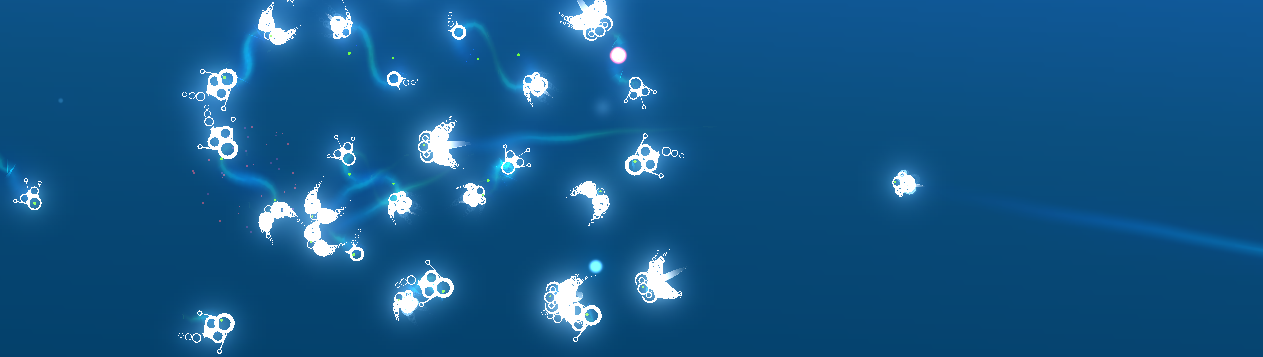
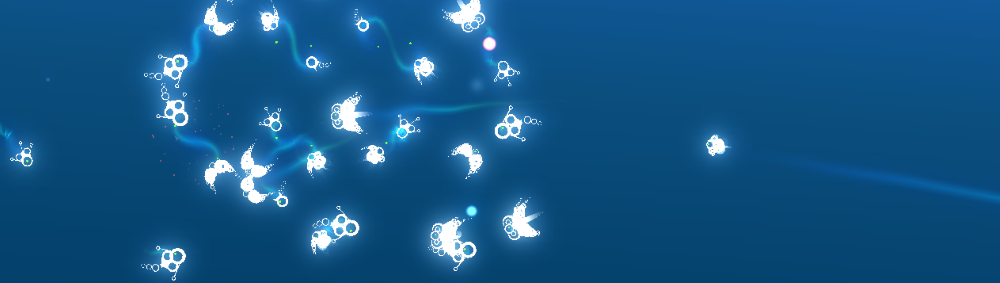
rescaled images for faster loading time

diff --git a/pages/winteriscoming.html b/pages/winteriscoming.html
@@ -14,13 +14,8 @@
         font-size:  20;
         color: #CC3114;
     }
-    
-    #Pic {
-        margin: 20 auto;
-        max-width: 80%;
-    }
 </style>
-                <div id="projectHeaderPicture">
+                <div class="projectHeaderPicture">
                     <img src="images/winteriscoming/header.png">
                 </div>
                 
@@ -40,7 +35,7 @@
                     </p>
                     <p><b>Date: </b> Mei 2015
                     </p>
-                    <p><b>Play: </b><a href="http://14411.hosts.ma-cloud.nl/asteroids/Winter_Is_Coming.swf" target="_blank"> here</a>
+                    <p><b>Play: </b><a href="http://14411.hosts.ma-cloud.nl/asteroids/bin/Winter_Is_Coming.swf" target="_blank"> here</a>
                     </p>
                     <p><b>Github: </b> <a href="https://github.com/Daniel95/WinterIsComing" target="_blank"> here</a>
                     </p>
@@ -63,7 +58,7 @@
             
             <div class="textContent"> 
                 <h2>Screenshots</h2>
-                <div id="Pic">
+                <div class="horImage">
                     <img src="images/winteriscoming/winteriscoming.png">
                 </div>
             </div>

diff --git a/pages/annihilators.html b/pages/annihilators.html
@@ -14,11 +14,6 @@
         font-size:  20;
         color: #CC3114;
     }
-    
-    #Pic {
-        margin: 20 auto;
-        max-width: 80%;
-    }
 </style>
                 <div id="projectHeaderPicture">
                     <img src="images/infinitehorizon/header.png">
@@ -67,19 +62,19 @@
             
             <div class="textContent"> 
                 <h2>Screenshots</h2>
-                <div id="Pic">
+                <div class="horImage">
                     <img src="images/infinitehorizon/infinitehorizon4.png">
                 </div>
                 <br>
-                <div id="Pic">
+                <div class="horImage">
                     <img src="images/infinitehorizon/infinitehorizon5.png">
                 </div>
                 <br>
-                <div id="Pic">
+                <div class="horImage">
                     <img src="images/infinitehorizon/shaders.png">
                 </div>
                                 <br>
-                <div id="Pic">
+                <div class="horImage">
                     <img src="images/infinitehorizon/terrain.png">
                 </div>
             </div>

diff --git a/pages/infinitehorizon.html b/pages/infinitehorizon.html
@@ -14,13 +14,8 @@
         font-size:  20;
         color: #CC3114;
     }
-    
-    #Pic {
-        margin: 20 auto;
-        max-width: 80%;
-    }
 </style>
-                <div id="projectHeaderPicture">
+                <div class="projectHeaderPicture">
                     <img src="images/infinitehorizon/header.png">
                 </div>
 
@@ -69,15 +64,15 @@
             
             <div class="textContent"> 
                 <h2>Screenshots</h2>
-                <div id="Pic">
+                <div class="horImage">
                     <img src="images/infinitehorizon/infinitehorizon5.png">
                 </div>
                 <br>
-                <div id="Pic">
+                <div class="horImage">
                     <img src="images/infinitehorizon/shaders.png">
                 </div>
                                 <br>
-                <div id="Pic">
+                <div class="horImage">
                     <img src="images/infinitehorizon/terrain.png">
                 </div>
             </div>

diff --git a/pages/voodoo.html b/pages/voodoo.html
@@ -14,13 +14,8 @@
         font-size:  20;
         color: #CC3114;
     }
-    
-    #Pic {
-        margin: 20 auto;
-        max-width: 80%;
-    }
 </style>
-                <div id="projectHeaderPicture">
+                <div class="projectHeaderPicture">
                     <img src="images/voodoo/header.png">
                 </div>
 
@@ -63,15 +58,15 @@ This is a horror game targeted for the Oculus Rift.<br>
             
             <div class="textContent"> 
                 <h2>Screenshots</h2>
-                <div id="Pic">
+                <div class="horImage">
                     <img src="images/voodoo/voodoo1.png">
                 </div>
                 <br>
-                <div id="Pic">
+                <div class="horImage">
                     <img src="images/voodoo/voodoo2.png">
                 </div>
                 <br>
-                <div id="Pic">
+                <div class="horImage">
                     <img src="images/voodoo/voodoo3.png">
                 </div>
             </div>

diff --git a/pages/endlessgunner.html b/pages/endlessgunner.html
@@ -14,13 +14,8 @@
         font-size:  20;
         color: #CC3114;
     }
-    
-    #Pic {
-        margin: 20 auto;
-        max-width: 80%;
-    }
 </style>
-                <div id="projectHeaderPicture">
+                <div class="projectHeaderPicture">
                     <img src="images/endlessgunner/header.png">
                 </div>
 
@@ -59,11 +54,11 @@
             
             <div class="textContent"> 
                 <h2>Screenshots</h2>
-                <div id="Pic">
+                <div class="verImage">
                     <img src="images/endlessgunner/endlessgunner2.png">
                 </div>
                 <br>
-                <div id="Pic">
+                <div class="verImage">
                     <img src="images/endlessgunner/endlessgunner1.png">
                 </div>
             </div>

diff --git a/pages/shaders.html b/pages/shaders.html
@@ -14,13 +14,8 @@
         font-size:  20;
         color: #CC3114;
     }
-    
-    #Pic {
-        margin: 20 auto;
-        max-width: 80%;
-    }
 </style>
-                <div id="projectHeaderPicture">
+                <div class="projectHeaderPicture">
                     <img src="images/infinitehorizon/header.png">
                 </div>
 
@@ -59,10 +54,10 @@
             
             <div class="textContent"> 
                 <h2>Screenshots</h2>
-                <div id="Pic">
+                <div class="horImage">
                     <img src="images/shaders/shaders2.png">
                 </div>
-                <div id="Pic">
+                <div class="horImage">
                     <img src="images/shaders/shaders1.png">
                 </div>
             </div>

diff --git a/script.js b/script.js
@@ -1,25 +1,25 @@
 //values
 var dia = [ 1,
     {
-        img: "slider/voodoo.png",
+        img: "banner/voodoo.png",
         hText: "Voodoo",
         pText: "3D VR Horror Game",
         page: "voodoo",
     },
     {
-        img: "slider/waterrun.jpg",
+        img: "banner/waterrun.jpg",
         hText: "",
         pText: "",
         page: "waterrun",
     },
     {
-        img: "slider/treehousedefense.png",
+        img: "banner/treehousedefense.png",
         hText: "2D Towerdefense Game",
         pText: "Aim",
         page: "treehousedefense",
     },
     {
-        img: "slider/meanracers.png",
+        img: "banner/meanracers.png",
         hText: "Meanracers",
         pText: "2D Online Javascript Game",
         page: "meanracers",

diff --git a/pages/treehousedefense.html b/pages/treehousedefense.html
@@ -14,13 +14,8 @@
         font-size:  20;
         color: #CC3114;
     }
-    
-    #Pic {
-        margin: 20 auto;
-        max-width: 80%;
-    }
 </style>
-                <div id="projectHeaderPicture">
+                <div class="projectHeaderPicture">
                     <img src="images/treehousedefense/header.png">
                 </div>
 
@@ -62,7 +57,7 @@
             
             <div class="textContent"> 
                 <h2>Screenshots</h2>
-                <div id="Pic">
+                <div class="horImage">
                     <img src="images/treehousedefense/treehousedefense1.png">
                 </div>
             </div>

diff --git a/pages/chunkeditor.html b/pages/chunkeditor.html
@@ -14,13 +14,8 @@
         font-size:  20;
         color: #CC3114;
     }
-    
-    #Pic {
-        margin: 20 auto;
-        max-width: 80%;
-    }
 </style>
-
+            <br>
                 <h2>Chunk Editor</h2>
                 
                 <h3>Info</h3>
@@ -54,7 +49,7 @@
             
             <div class="textContent"> 
                 <h2>Screenshots</h2>
-                <div id="Pic">
+                <div class="verImage">
                     <img src="images/chunkeditor/chunkeditor.png">
                 </div>
                 <br>

diff --git a/style.css b/style.css
@@ -117,7 +117,7 @@ li a:hover:not(.active) {
 }
 
 .logo {
-    background-image: url(images/banner/voodooscene.png);
+    background-image: url(images/top/voodooscene.png);
     position: fixed;
     width: 100%;
     max-width: 1100px;
@@ -128,7 +128,17 @@ img {
     max-height: 100%;
 }
 
-#projectHeaderPicture{ 
+.horImage img{
+    margin: 20 auto;
+    width: 80%;
+}
+
+.verImage img{
+    margin: 20 auto;
+    width: 50%;
+}
+
+.projectHeaderPicture img{ 
     width: 100%;
 }
 

diff --git a/pages/xlab.html b/pages/xlab.html
@@ -14,14 +14,9 @@
         font-size:  20;
         color: #CC3114;
     }
-    
-    #Pic {
-        margin: 20 auto;
-        max-width: 80%;
-    }
 </style>
             
-                <div id="projectHeaderPicture">
+                <div class="projectHeaderPicture">
                     <img src="images/xlab/Screenshot_1.png">
                 </div>
                 <h2>Xlab</h2>
